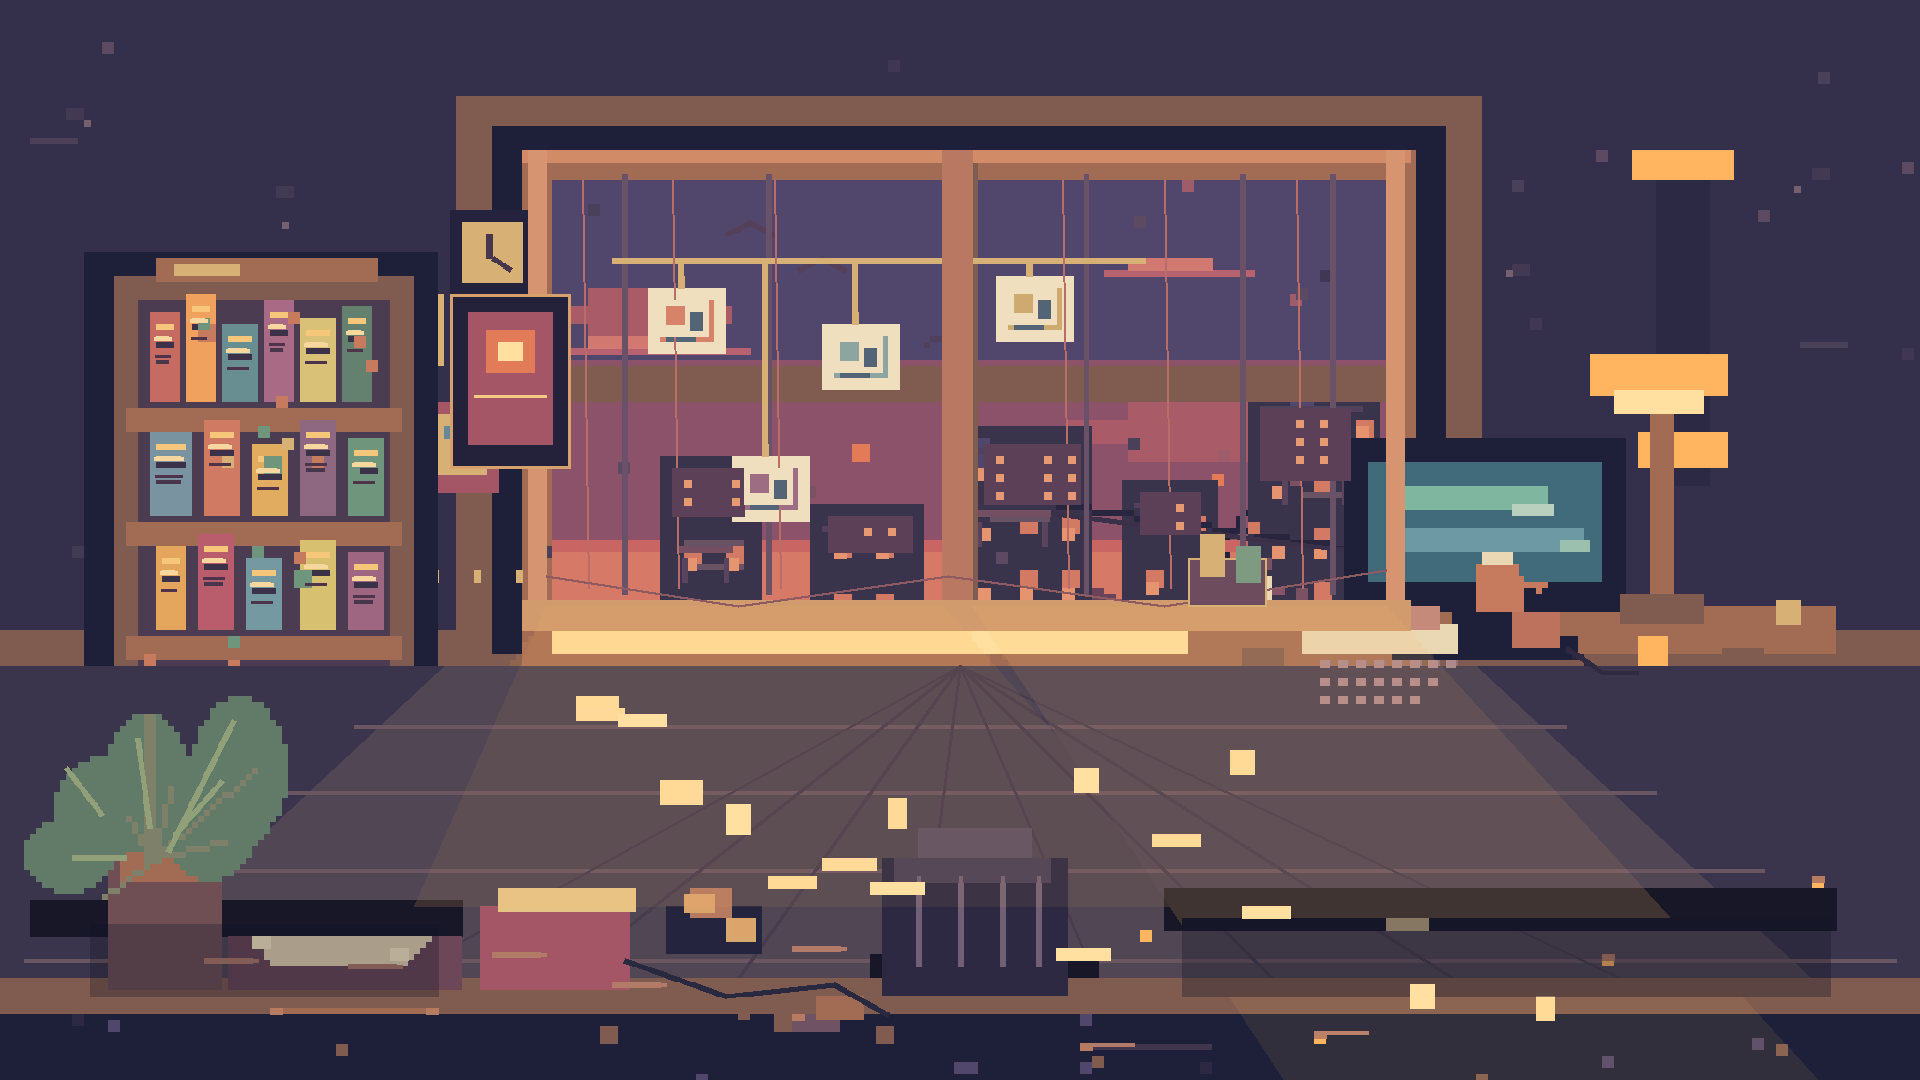
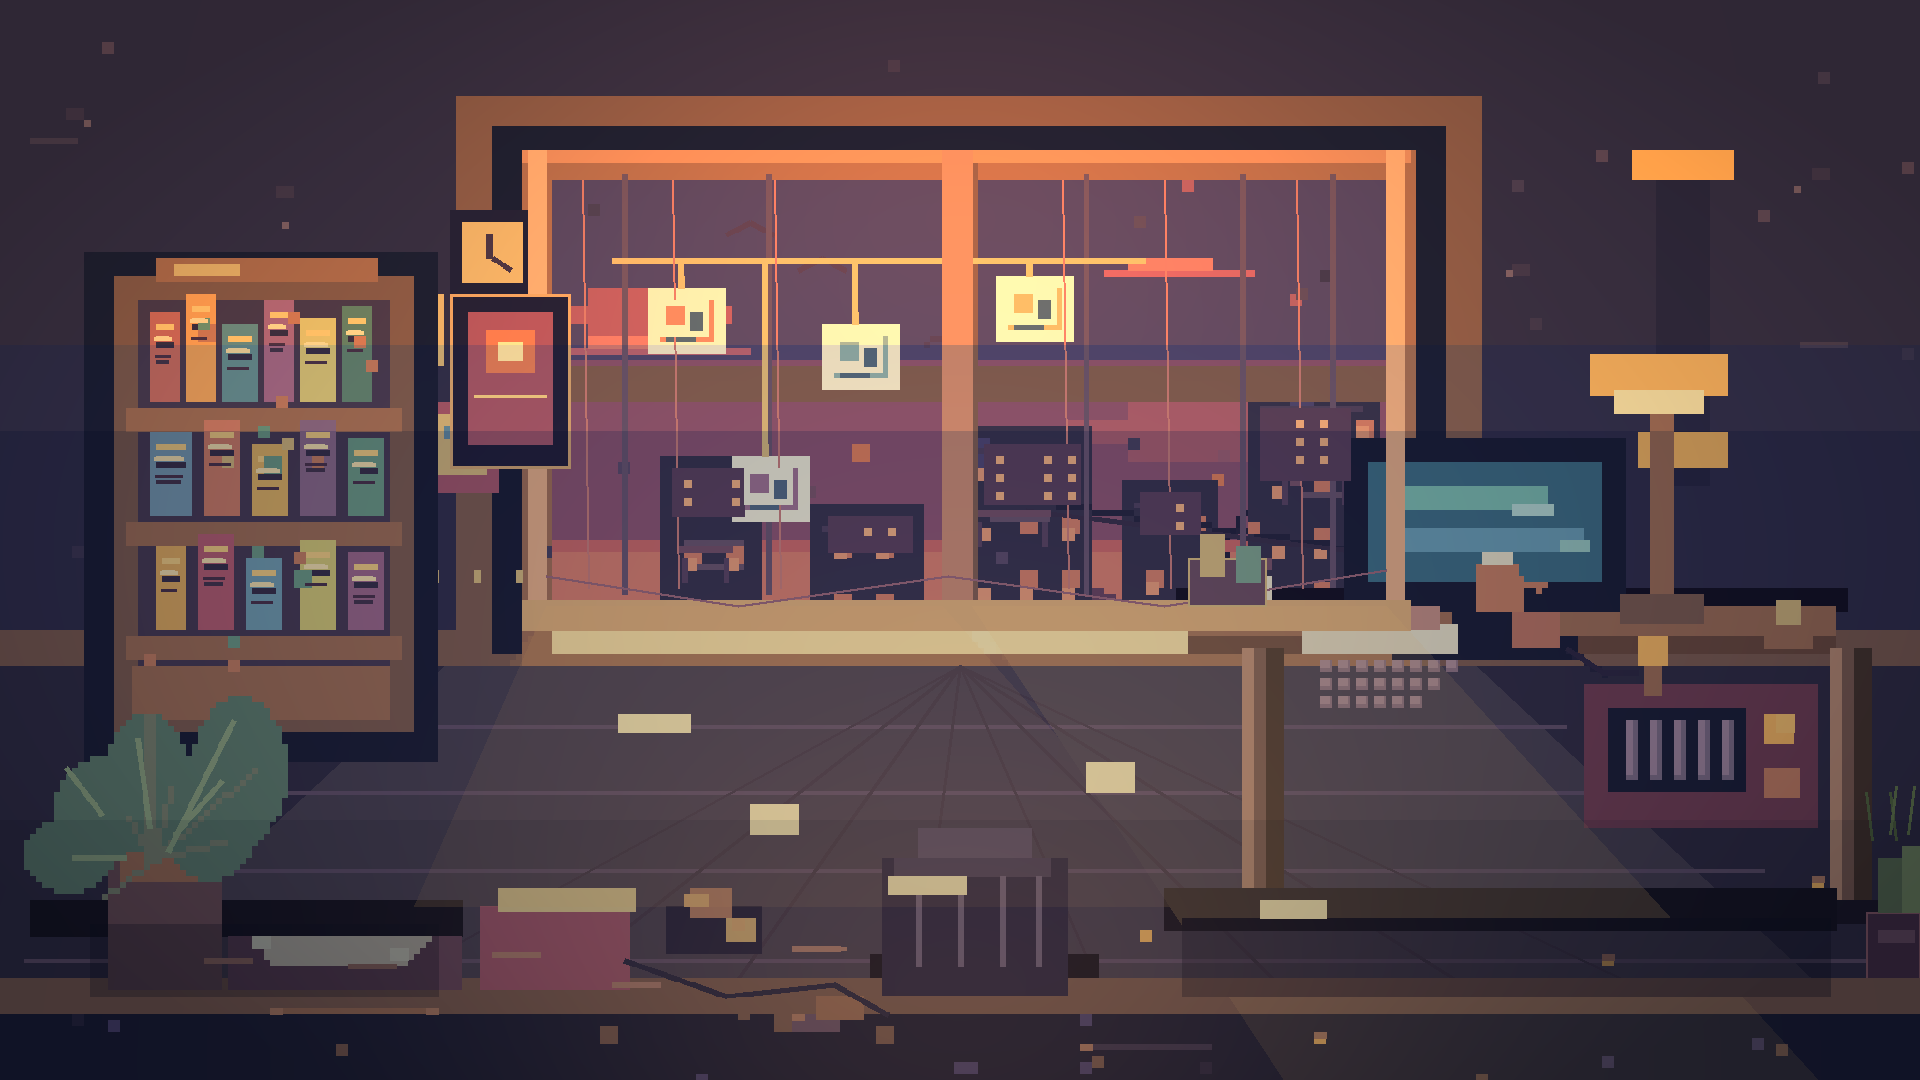
fix: desk legs no longer float, fix render-order clipping bugs

diff --git a/scripts/generate-wander-prototype.py b/scripts/generate-wander-prototype.py
@@ -1,123 +1,202 @@
 from pathlib import Path
 from PIL import Image, ImageDraw
+import numpy as np
 
 
 ROOT = Path(__file__).resolve().parents[1]
 SIZE = (1920, 1080)
-SOURCE_SIZE = (2048, 1152)
 OUT = ROOT / "public" / "wander" / "prototype-dusk-1920.webp"
 
 
-def rect(draw, box, fill, outline=None, width=1):
-    draw.rectangle(box, fill=fill, outline=outline, width=width)
+def tone_grade(scene: Image.Image) -> Image.Image:
+    """Dusk tone grading: brighten+warm the window side, darken+cool the interior,
+    cast window light on the floor, deepen the floor plane."""
+    arr = np.asarray(scene.convert("RGB")).astype(np.float32)
+    h, w = arr.shape[:2]
+    ys, xs = np.mgrid[0:h, 0:w]
 
+    # 1) Window/outside plane: brighter and warmer, strongest near the sun.
+    sky = ys < 345
+    sun = np.exp(-(((xs - 960) / 420.0) ** 2 + ((ys - 130) / 300.0) ** 2))
+    arr[sky, 0] *= 1.18 + 0.30 * sun[sky]
+    arr[sky, 1] *= 1.06 + 0.14 * sun[sky]
+    arr[sky, 2] *= 0.92 + 0.05 * sun[sky]
 
-def line(draw, points, fill, width=1):
-    draw.line(points, fill=fill, width=width)
+    # 2) Interior walls: darker and cooler.
+    interior = (ys > 430) & (ys < 820)
+    arr[interior, 0] *= 0.80
+    arr[interior, 1] *= 0.85
+    arr[interior, 2] *= 0.94
+
+    # 3) Floor plane: darkest, receding into shadow.
+    floor = ys >= 820
+    arr[floor, 0] *= 0.72
+    arr[floor, 1] *= 0.78
+    arr[floor, 2] *= 0.88
+
+    # 4) Warm window light falling onto the floor (radiates from the window base).
+    floor_glow = np.exp(-((xs - 960) / 460.0) ** 2) * np.exp(-((ys - 1060) / 320.0) ** 2)
+    floor_glow *= ys > 380
+    arr[:, :, 0] += 34 * floor_glow
+    arr[:, :, 1] += 20 * floor_glow
+    arr[:, :, 2] += 8 * floor_glow
+
+    # 5) Subtle vignette: corners darker for focus.
+    vx = (xs - w / 2) / (w / 2)
+    vy = (ys - h / 2) / (h / 2)
+    vig = 1.0 - 0.16 * np.clip(vx * vx + vy * vy, 0, 1.4)
+    arr *= vig[:, :, None]
+
+    return Image.fromarray(np.clip(arr, 0, 255).astype(np.uint8), "RGB")
 
 
 def main():
     scene = Image.new("RGBA", SIZE)
     source_root = ROOT / "public" / "wander" / "dusk"
     for name in ("sky", "outside", "room", "objects", "light"):
-        layer = Image.open(source_root / f"{name}.webp").convert("RGBA").resize(SIZE, Image.Resampling.NEAREST)
+        layer = (
+            Image.open(source_root / f"{name}.webp")
+            .convert("RGBA")
+            .resize(SIZE, Image.Resampling.NEAREST)
+        )
         scene.alpha_composite(layer)
 
     draw = ImageDraw.Draw(scene)
-    # 1920-native architectural details: window frame, facade rhythm and cables.
     sx, sy = 1920 / 320, 1080 / 180
+
     def p(x, y):
         return round(x * sx), round(y * sy)
+
     def r(x, y, w, h, color, outline=None, width=1):
-        rect(draw, (round(x*sx), round(y*sy), round((x+w)*sx), round((y+h)*sy)), color, outline, max(1, round(width*sx)))
+        draw.rectangle(
+            (round(x * sx), round(y * sy), round((x + w) * sx), round((y + h) * sy)),
+            fill=color,
+            outline=outline,
+            width=max(1, round(width * sx)),
+        )
+
     def l(points, color, width=1):
-        line(draw, [p(x, y) for x, y in points], color, max(1, round(width*sx)))
+        draw.line([p(x, y) for x, y in points], fill=color, width=max(1, round(width * sx)))
 
-    # Rebuild the visible floor plane on one perspective system and remove the old
-    # scattered pixels that did not belong to either light source.
-    draw.polygon([p(0, 111), p(320, 111), p(320, 180), p(0, 180)], fill="#3a344c")
-    draw.polygon([p(74, 111), p(246, 111), p(320, 180), p(0, 180)], fill="#514653")
+    # Floor plane: one perspective system, vanishing point near window center (160,111).
+    # NOTE: this opaque redraw covers the full floor rectangle (y=111-180), which
+    # would erase the lower half of any furniture leg drawn in the "objects"
+    # layer (desk legs, shelf base, chair legs all reach down to the floor).
+    # Re-composite "objects" on top afterwards so furniture stays visible.
+    draw.polygon([p(0, 111), p(320, 111), p(320, 180), p(0, 180)], fill="#332e44")
+    draw.polygon([p(74, 111), p(246, 111), p(320, 180), p(0, 180)], fill="#4a4150")
     for y, x1, x2 in ((121, 59, 261), (132, 44, 276), (145, 26, 294), (160, 4, 316), (174, 0, 320)):
-        l([(x1, y), (x2, y)], "#6b5560", .65)
+        l([(x1, y), (x2, y)], "#645064", 0.65)
     for x in (35, 72, 111, 151, 190, 229, 269, 306):
-        l([(160, 111), (x, 180)], "#493d4d", .55)
-    # Contact shadows anchor the shelf, desk and chair to the floor.
-    r(5, 150, 72, 6, (24, 23, 39, 105))
-    r(194, 148, 112, 7, (24, 23, 39, 125))
-    r(145, 159, 38, 5, (24, 23, 39, 120))
-    # The broad glow is composited later on its own transparent layer; do not paint alpha directly on the opaque scene.
-    for x, y, w, h in ((96, 118, 8, 2), (113, 130, 4, 4), (137, 143, 9, 2), (166, 153, 4, 4), (192, 139, 8, 2)):
-        r(x, y, w, h, (255, 224, 160, 105))
-
-    # Foreground is deliberately composited after the floor correction.
-    foreground = Image.open(source_root / "foreground.webp").convert("RGBA").resize(SIZE, Image.Resampling.NEAREST)
-    scene.alpha_composite(foreground)
+        l([(160, 111), (x, 180)], "#45394a", 0.55)
+    objects_layer = (
+        Image.open(source_root / "objects.webp")
+        .convert("RGBA")
+        .resize(SIZE, Image.Resampling.NEAREST)
+    )
+    scene.alpha_composite(objects_layer)
     draw = ImageDraw.Draw(scene)
 
+    # Contact shadows anchor shelf, desk and chair.
+    r(5, 150, 72, 6, (24, 23, 39, 110))
+    r(194, 148, 112, 7, (24, 23, 39, 130))
+    r(145, 159, 38, 5, (24, 23, 39, 125))
+
     # Window highlights and curtain folds.
-    r(88, 25, 3, 80, "#d69570")
-    r(231, 25, 3, 80, "#d69570")
-    r(157, 25, 5, 80, "#b87861")
-    r(87, 100, 148, 5, "#d29b6d")
+    r(88, 25, 3, 80, "#e8a87e")
+    r(231, 25, 3, 80, "#e8a87e")
+    r(157, 25, 5, 80, "#c9856b")
+    r(87, 100, 148, 5, "#e0a872")
     for x in (97, 112, 129, 177, 194, 216):
-        l([(x, 30), (x + 1, 98)], "#b86d69", .35)
-    # City facade grid and warm apartment windows.
-    # The existing outside layer already carries the city pixels. Keep this prototype pass focused on the window frame and interior separation.
+        l([(x, 30), (x + 1, 98)], "#c47770", 0.35)
+
+    # City facade grid with warm apartment windows.
     for x, y, w, h in ((112, 78, 12, 8), (138, 86, 14, 6), (164, 74, 16, 10), (190, 82, 10, 7), (210, 68, 15, 12)):
         r(x, y, w, h, "#5b4058")
         for row in range(y + 2, y + h - 1, 3):
             for col in range(x + 2, x + w - 1, 4):
                 if (row + col) % 3:
-                    r(col, row, 1.2, 1.2, "#e69a73")
-    l([(91, 96), (123, 101), (158, 96), (194, 101), (231, 95)], "#8f5b63", .45)
-    for x, y, w in ((25,52,4), (31,49,4), (37,54,5), (44,50,4), (50,53,5), (57,51,4), (25,72,6), (34,70,5), (42,74,5), (50,70,5), (58,73,5), (26,91,4), (33,89,5), (41,93,5), (50,90,5), (58,92,5)):
-        r(x + .7, y + 4.2, max(1.2, w - 1.2), .55, "#f7d79e")
-        r(x + .8, y + 7.1, max(1, w - 1.5), .4, "#4d344a")
-    r(75, 49, 20, 29, "#24213b", "#d6a16d", .45)
+                    r(col, row, 1.2, 1.2, "#f0a878")
+    l([(91, 96), (123, 101), (158, 96), (194, 101), (231, 95)], "#9a6470", 0.45)
+
+    # Left wall: window, sun panel and photos (kept as before).
+    for x, y, w in ((25, 52, 4), (31, 49, 4), (37, 54, 5), (44, 50, 4), (50, 53, 5), (57, 51, 4), (25, 72, 6), (34, 70, 5), (42, 74, 5), (50, 70, 5), (58, 73, 5), (26, 91, 4), (33, 89, 5), (41, 93, 5), (50, 90, 5), (58, 92, 5)):
+        r(x + 0.7, y + 4.2, max(1.2, w - 1.2), 0.55, "#f7d79e")
+        r(x + 0.8, y + 7.1, max(1, w - 1.5), 0.4, "#4d344a")
+    r(75, 49, 20, 29, "#24213b", "#d6a16d", 0.45)
     r(78, 52, 14, 22, "#a55666")
     r(81, 55, 8, 7, "#e17b58")
     r(83, 57, 4, 3, "#ffe0a0")
-    l([(79, 66), (91, 66)], "#f4c981", .5)
-    # Photo subjects, clips and paper edges.
-    for x, y, c in ((108,48,"#d78369"), (137,54,"#8ca5a0"), (166,46,"#cfaa70"), (122,76,"#9d6d83")):
+    l([(79, 66), (91, 66)], "#f4c981", 0.5)
+    for x, y, c in ((108, 48, "#d78369"), (137, 54, "#8ca5a0"), (166, 46, "#cfaa70"), (122, 76, "#9d6d83")):
         r(x + 2, y + 2, 8, 6, "#efdfbf")
         r(x + 3, y + 3, 3, 3, c)
         r(x + 7, y + 4, 2, 3, "#536477")
         r(x + 5, y - 2, 1, 2, "#d6b075")
-    # Desk surface: keyboard, cup, notes, cable and camera controls.
+
+    # Desk surface: keyboard, cup, notes, cable.
     for row, count in ((110, 8), (113, 7), (116, 6)):
         for index in range(count):
             r(220 + index * 3, row, 1.5, 1.1, "#b08a8b")
-    r(198, 93, 13, 8, "#6d4d5d", "#d6b075", .35)
+    r(198, 93, 13, 8, "#6d4d5d", "#d6b075", 0.35)
     r(200, 89, 4, 7, "#d6b075")
     r(206, 91, 4, 6, "#7e9a81")
     r(246, 94, 7, 7, "#c77b5e")
     r(247, 92, 5, 2, "#ead7b4")
-    l([(261,108), (267,112), (273,112)], "#302942", .7)
-    r(114,149,5,3,"#dca36b")
-    r(122,153,3,3,"#dca36b")
-    # Foreground chair slats and layered rug weave.
-    r(149,143,26,4,"#4a4057")
-    for x in (153,160,167,173):
-        l([(x,146),(x,161)], "#716073", .65)
-    for x, y in ((34,160),(58,161),(82,159),(102,164),(132,158),(180,174),(219,172)):
-        l([(x,y),(x+9,y)], "#b27b68", .65)
-    l([(104,160),(121,166),(139,164),(148,169)], "#28283f", .65)
-    # Native 1920 dust/light flecks, sparse and intentional.
-    for x, y, w, h in ((96,116,7,2),(110,130,3,4),(128,146,8,2),(148,133,3,5),(176,158,9,2),(205,125,4,4),(231,153,7,2),(256,166,3,4)):
-        r(x,y,w,h,(255,224,160,115))
-    # Room-scale light and contact shadows: use broad translucent shapes, not a global filter.
+    l([(261, 108), (267, 112), (273, 112)], "#302942", 0.7)
+    r(114, 149, 5, 3, "#dca36b")
+    r(122, 153, 3, 3, "#dca36b")
+
+    # Foreground chair slats and rug weave.
+    r(149, 143, 26, 4, "#4a4057")
+    for x in (153, 160, 167, 173):
+        l([(x, 146), (x, 161)], "#716073", 0.65)
+    for x, y in ((34, 160), (58, 161), (82, 159), (102, 164), (132, 158), (180, 174), (219, 172)):
+        l([(x, y), (x + 9, y)], "#b27b68", 0.65)
+    l([(104, 160), (121, 166), (139, 164), (148, 169)], "#28283f", 0.65)
+
+    # Right-side foreground: low cabinet with a small plant to rebalance composition.
+    r(311, 152, 9, 24, "#4a3145", "#8f5b63", 0.4)
+    r(313, 155, 6, 2, "#6d4d5d")
+    r(313, 143, 4, 9, "#5d6b4f")
+    r(317, 141, 3, 11, "#77845c")
+    for fx in (312, 316):
+        l([(fx, 140), (fx - 1, 132)], "#55643f", 0.5)
+    for fx in (315, 318):
+        l([(fx, 139), (fx + 1, 131)], "#66754a", 0.5)
+
+    # Foreground composited last.
+    foreground = (
+        Image.open(source_root / "foreground.webp")
+        .convert("RGBA")
+        .resize(SIZE, Image.Resampling.NEAREST)
+    )
+    scene.alpha_composite(foreground)
+    draw = ImageDraw.Draw(scene)
+
+    # Room-scale light shafts: coherent wedges from the window, not scattered dots.
     glow = Image.new("RGBA", SIZE, (0, 0, 0, 0))
     glow_draw = ImageDraw.Draw(glow)
-    glow_draw.polygon([(p(91, 101)), (p(157, 101)), (p(201, 151)), (p(69, 151))], fill=(255, 181, 101, 18))
-    glow_draw.polygon([(p(162, 101)), (p(231, 101)), (p(303, 180)), (p(214, 180))], fill=(255, 191, 110, 24))
-    glow_draw.rectangle((p(15, 154)[0], p(15, 154)[1], p(73, 166)[0], p(73, 166)[1]), fill=(17, 20, 38, 75))
-    glow_draw.rectangle((p(197, 153)[0], p(197, 153)[1], p(305, 166)[0], p(305, 166)[1]), fill=(17, 20, 38, 82))
+    glow_draw.polygon(
+        [(p(91, 101)), (p(157, 101)), (p(201, 151)), (p(69, 151))], fill=(255, 181, 101, 22)
+    )
+    glow_draw.polygon(
+        [(p(162, 101)), (p(231, 101)), (p(303, 180)), (p(214, 180))], fill=(255, 191, 110, 30)
+    )
+    glow_draw.rectangle(
+        (p(15, 154)[0], p(15, 154)[1], p(73, 166)[0], p(73, 166)[1]), fill=(17, 20, 38, 78)
+    )
+    glow_draw.rectangle(
+        (p(197, 153)[0], p(197, 153)[1], p(305, 166)[0], p(305, 166)[1]), fill=(17, 20, 38, 88)
+    )
     scene = Image.alpha_composite(scene, glow)
+
+    # Sparse coherent window-light fragments (grouped, not pixel noise).
     draw = ImageDraw.Draw(scene)
-    # Narrow pixel bands break the broad light into window-frame fragments.
-    for x, y, w, h in ((103, 119, 8, 2), (121, 134, 4, 5), (145, 147, 9, 2), (179, 128, 4, 4), (207, 151, 8, 2), (235, 164, 4, 4)):
+    for x, y, w, h in ((103, 119, 12, 3), (125, 134, 8, 5), (148, 146, 13, 3), (181, 127, 8, 5), (210, 150, 11, 3)):
         r(x, y, w, h, (255, 224, 160, 110))
+
+    scene = tone_grade(scene.convert("RGBA"))
     scene.convert("RGB").save(OUT, "WEBP", lossless=True, method=6)
     print(f"generated {OUT} {scene.size}")
 

diff --git a/scripts/generate-wander-art.py b/scripts/generate-wander-art.py
@@ -319,9 +319,11 @@ def draw_objects():
         draw.rectangle((x + 3, y + 6, x + 7, y + 8), fill="#536477")
         draw.line((x + 3, y + 3, x + 9, y + 3), fill="#fff0c9", width=1)
     # desk and monitor
+    # A dark separator line reads as the boundary between the window sill above
+    # and the desk surface below, so the two planes never blend into one shape.
+    draw.rectangle((196, 98, 307, 101), fill="#161428")
     draw.rectangle((198, 101, 305, 108), fill=PALETTE["wood_light"])
-    draw.rectangle((207, 108, 213, 153), fill=PALETTE["wood"])
-    draw.rectangle((287, 108, 293, 153), fill=PALETTE["wood"])
+    draw.rectangle((198, 106, 305, 108), fill="#6f4a3f")
     draw.rectangle((224, 73, 270, 101), fill=PALETTE["deep"])
     draw.rectangle((228, 77, 266, 96), fill="#416b7b")
     draw.rectangle((233, 81, 257, 84), fill="#7fb6a0")
@@ -359,6 +361,20 @@ def draw_objects():
     draw.rectangle((260, 90, 264, 91), fill="#9bc0ae")
     draw.line((253, 96, 256, 98), fill="#c77b5e", width=1)
     draw.line((253, 97, 257, 97), fill="#c77b5e", width=1)
+    # Desk legs: drawn last so radio/lamp/monitor never clip them. Left leg
+    # sits clear of all clutter; right leg is pushed past the radio's right
+    # edge (302) into open floor space. Highlight/shadow edges read as a
+    # solid post rather than a flat silhouette blending into the void below.
+    draw.rectangle((207, 108, 213, 151), fill=PALETTE["wood"])
+    draw.rectangle((207, 108, 208, 151), fill="#c08a6e")
+    draw.rectangle((211, 108, 213, 151), fill="#4a3630")
+    draw.rectangle((305, 108, 311, 151), fill=PALETTE["wood"])
+    draw.rectangle((305, 108, 306, 151), fill="#c08a6e")
+    draw.rectangle((309, 108, 311, 151), fill="#4a3630")
+    # Narrow contact-shadow slivers right at floor level only, so the leg's
+    # highlight/shadow gradient stays visible above the shadow.
+    draw.ellipse((204, 150, 216, 153), fill=(10, 8, 20, 130))
+    draw.ellipse((302, 150, 314, 153), fill=(10, 8, 20, 130))
     pixel_specks(draw, (24, 49, 64, 116), ["#c77b5e", "#d6b075", "#6f957c"], 18, 31)
     return image
 
